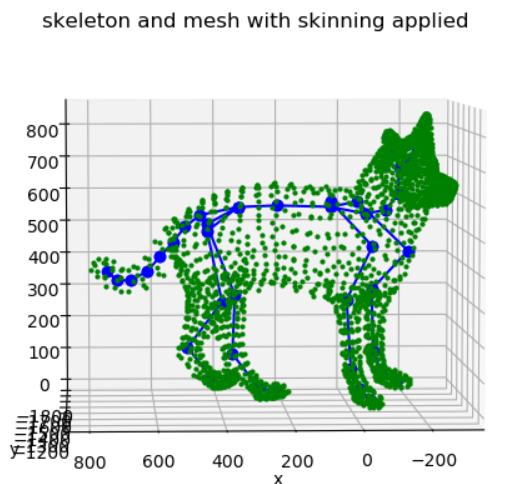
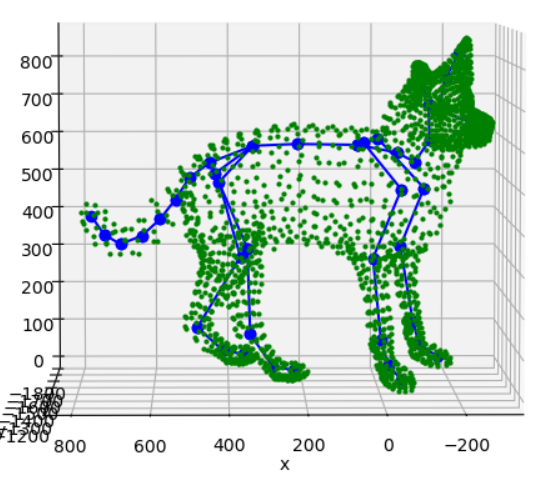
added code to convert mesh to SMAL mesh

diff --git a/Source/test_meshToSmalMesh.py b/Source/test_meshToSmalMesh.py
@@ -1,0 +1,71 @@
+'''
+Given a mesh produced by the skinning function, we use barycentric coordindates to convert this mesh into the SMAL mesh
+Using the SMAL joint regressor, we can obtain the 3D locations of the SMAL skeleton
+
+Note that the SMAL model can be downloaded from: http://smal.is.tue.mpg.de/
+'''
+import os
+import sys
+from utils import utils
+
+import matplotlib.pyplot as plt
+from mpl_toolkits.mplot3d import Axes3D
+import pickle
+import numpy as np
+import test_skinning
+
+
+def SetValues():
+	PATH_TO_SMAL = 'full/path/to/SMAL.pkl'
+	pathToMainDataset = 'D:/DOG'
+	dog = 'dog1'
+	motion = 'trot'
+	cameraFrame = 0
+	
+	return pathToMainDataset, dog, motion, cameraFrame, PATH_TO_SMAL
+
+def main(pathToMainDataset, dog, motion, cameraFrame, PATH_TO_SMAL):
+
+	assert dog not in ['dog6', 'dog7'], 'barycentric variables are not available for these dogs'
+	
+	bary_file = os.path.join(pathToMainDataset, dog, 'meta', 'SMAL_barycen.mat')
+	assert os.path.isfile(bary_file), 'file could not be located. Please ensure you have the latest version of the dog\'s meta folder'
+	
+	barycen = utils.LoadMatFile(bary_file)
+	barycen_neighVertIds = utils.LoadMatFile(os.path.join(pathToMainDataset, dog, 'meta', 'SMAL_barycen_neighVertIds.mat'))
+	barycen_neighVertIds -= 1 # created in Matlab, so start index from 0
+	numVertsInSmalMesh = barycen.shape[0]
+
+	# get the mesh and joint locations for the specified frame
+	verts, bvhJoints = test_skinning.main(pathToMainDataset, dog, motion, cameraFrame, plotMesh=False)
+
+	# get SMAL vertex locations from the mesh we've generated
+	verts_smal = np.zeros((numVertsInSmalMesh,3))
+	for v in range(numVertsInSmalMesh):
+		nn = barycen_neighVertIds[v]
+		barycen_currFace = barycen[v]
+		nn_location = np.transpose(verts[nn])
+		verts_smal[v] = nn_location.dot(barycen_currFace)
+
+	# use the SMAL joint regressor to get the 3D joint locations
+	assert os.path.isfile(PATH_TO_SMAL), 'invalid location for the SMAL pickle file'
+	with open(PATH_TO_SMAL, 'rb') as f: 
+		smalData = pickle.load(f, encoding='latin1')
+	J_regressor = smalData['J_regressor']
+	skelConnections = smalData['kintree_table'][0]
+	joint_locations = J_regressor.dot(verts_smal)
+
+	# plot
+	fig = plt.figure(); ax = fig.add_subplot(111, projection='3d')	
+	ax, fig = utils.Plot3d(joint_locations, connections=skelConnections, style='bo-', ax=ax, differentColoursForSides=False)
+	ax.plot(verts_smal[:,0], verts_smal[:,1], verts_smal[:,2], 'go', markersize=2)
+	plt.title('skeleton and mesh with skinning applied')
+	ax.set_xlabel('x'); ax.set_ylabel('y'); ax.set_aspect('auto')
+	plt.show()
+
+
+if __name__ == '__main__':
+	pathToMainDataset, dog, motion, cameraFrame, PATH_TO_SMAL = SetValues()
+	main(pathToMainDataset, dog, motion, cameraFrame, PATH_TO_SMAL)
+
+

diff --git a/Source/test_skinning.py b/Source/test_skinning.py
@@ -23,7 +23,7 @@ def SetValues():
 	return pathToMainDataset, dog, motion, cameraFrame
 	
 	
-def main(pathToMainDataset, dog, motion, cameraFrame):
+def main(pathToMainDataset, dog, motion, cameraFrame, plotMesh=True):
 
 	skelFrame = cameraFrame+1
 	
@@ -100,12 +100,14 @@ def main(pathToMainDataset, dog, motion, cameraFrame):
 	# apply root translation
 	verts = v + root_trans.reshape([1, 3]) 
 	
-	fig = plt.figure(); ax = fig.add_subplot(111, projection='3d')	
-	ax, fig = utils.Plot3d(bvhJoints, connections=skelConnections, style='bo-', ax=ax, differentColoursForSides=False)
-	ax.plot(verts[:,0], verts[:,1], verts[:,2], 'go', markersize=2)
-	plt.title('skeleton and mesh with skinning applied')
-	ax.set_xlabel('x'); ax.set_ylabel('y'); ax.set_aspect('auto')
-	plt.show()
+	if plotMesh:
+		fig = plt.figure(); ax = fig.add_subplot(111, projection='3d')	
+		ax, fig = utils.Plot3d(bvhJoints, connections=skelConnections, style='bo-', ax=ax, differentColoursForSides=False)
+		ax.plot(verts[:,0], verts[:,1], verts[:,2], 'go', markersize=2)
+		plt.title('skeleton and mesh with skinning applied')
+		ax.set_xlabel('x'); ax.set_ylabel('y'); ax.set_aspect('auto')
+		plt.show()
+	return verts, bvhJoints
 		
 	
 	

diff --git a/Source/readme.md b/Source/readme.md
@@ -28,5 +28,10 @@ Apply the animation from a bvh file to the dog
 
 ![RGBD-Dog](/figs/test_skinning.png)
 
+### test_meshToSmalMesh
+Convert the resulting skinned mesh to the SMAL representation and calculate 3D joint locations
+
+![RGBD-Dog](/figs/test_SMAL.png)
+
 Each file contains variables to edit before running. Please see the file itself.
 
